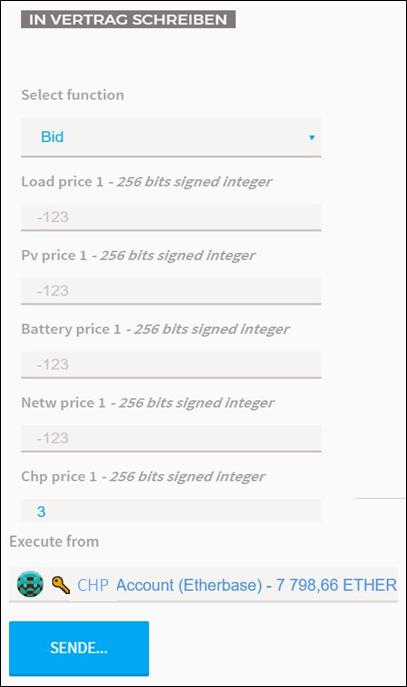
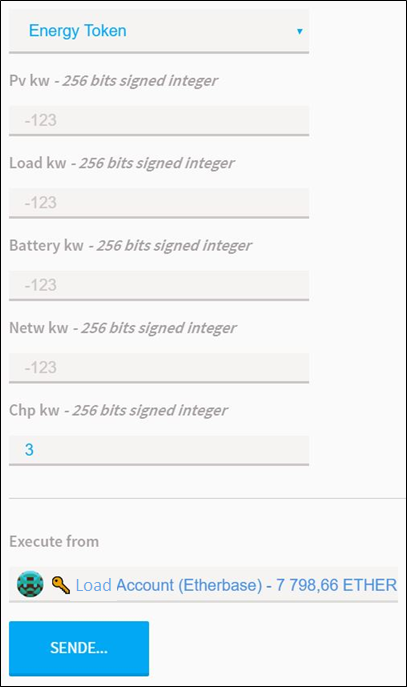
GitBook: [master] one page and 25 assets modified

diff --git a/5.-physical-implementation-in-a-test-network.md b/5.-physical-implementation-in-a-test-network.md
@@ -50,6 +50,8 @@ Damit wurde Ethereum installiert an der RPi and able to synchronise with the liv
 * Installing Golang 
 * Installing MinGW
 
+
+
 ### 5.2         Structure of the Smart Contracts
 
 The Smart Contract is deployed via [Mist browser](https://github.com/ethereum/mist) to our private Ethereum blockchain. It represents a trading platform, which can be used by the five actors. They can perform the following activities:
@@ -66,6 +68,10 @@ Each of these activities is realized by a function of the Smart Contract.
 * five account variables to store the prepaid balance of each actor. The logic for the separation is implemented in the charging and buying function.
 * five price variables to store the offers of each actor.
 
+### 
+
+![Overview of the Smart Contract](.gitbook/assets/image%20%282%29.png)
+
 ### 5.3 Sample Scenario
 
 1. "Load" charges its prepaid account with 40 Ether.
@@ -78,13 +84,33 @@ Each of these activities is realized by a function of the Smart Contract.
 
 To charge the prepaid account, "Load" executes the PayMe function of the SmartContract with the chosen amount of Ether. The Ether will be transferred from the "Load" wallet to the Smart Contract wallet. The Smart Contract recognizes who sent the Ether and increases the corresponding account balance variable.
 
-![Choose function and amount of ether](.gitbook/assets/image%20%287%29.png)
+![Logic](.gitbook/assets/image%20%2814%29.png)
 
-![Send Ether from &quot;Load&quot; wallet to contract wallet](.gitbook/assets/image%20%2812%29.png)
+**Steps:**
 
-![Writing the transaction into the blockchain](.gitbook/assets/image%20%285%29.png)
+{% tabs %}
+{% tab title="Step 1" %}
 
-![Wallet of the contract \(top right\) and prepaid balance of &quot;load&quot;](.gitbook/assets/image%20%2822%29.png)
+
+![Choose function and amount of ether](.gitbook/assets/image%20%289%29.png)
+{% endtab %}
+
+{% tab title="Step 2" %}
+
+
+![Send Ether from &quot;Load&quot; wallet to contract wallet](.gitbook/assets/image%20%2815%29.png)
+{% endtab %}
+
+{% tab title="Step 3" %}
+![Writing the transaction into the blockchain](.gitbook/assets/image%20%286%29.png)
+{% endtab %}
+
+{% tab title="Step 4" %}
+
+
+![Wallet of the contract \(top right\) and prepaid balance of &quot;load&quot;](.gitbook/assets/image%20%2827%29.png)
+{% endtab %}
+{% endtabs %}
 
 
 
@@ -92,9 +118,24 @@ To charge the prepaid account, "Load" executes the PayMe function of the SmartCo
 
 To publish an offer, "Chp" executes the bid function with the corresponding "Chp kw" value. The smart contract recognizes who executes the function. Therefore each actor can only change its own offers.
 
-![CHP changes its price per kw](.gitbook/assets/image%20%2813%29.png)
+![Logic](.gitbook/assets/image%20%2819%29.png)
 
-![The new offer is saved in the Smart Contract](.gitbook/assets/image%20%286%29.png)
+  
+**Steps:**
+
+{% tabs %}
+{% tab title="Step 1" %}
+
+
+![CHP changes its price per kw](.gitbook/assets/image%20%2816%29.png)
+{% endtab %}
+
+{% tab title="Step 2" %}
+
+
+![The new offer is saved in the Smart Contract](.gitbook/assets/image%20%287%29.png)
+{% endtab %}
+{% endtabs %}
 
 #### 
 
@@ -102,11 +143,32 @@ To publish an offer, "Chp" executes the bid function with the corresponding "Chp
 
 "Load" looks which actor has the cheapest price per kw. Afterwards chooses how much kw should be bought from which actor and executes the "Energy Tokens" function. The Smart Contract will check, if "Load" has enough prepaid balance to perform this transaction. If so, the Smart Contract will send the corresponding amount of ether from its wallet to the wallet of all involved actors. The prepaid balance of "Load" will be reduced.
 
-![Load looks for the best price offer](.gitbook/assets/image%20%286%29.png)
+![Logic](.gitbook/assets/image%20%288%29.png)
 
-![Load decides to buy 10 kw per 3 Ether from Chp](.gitbook/assets/image%20%284%29.png)
+  
+**Steps:**
 
-![Chp received 30 Ether from the Smart Contract wallet](.gitbook/assets/image%20%2818%29.png)
+{% tabs %}
+{% tab title="Step 1" %}
+
+
+![Load looks for the best price offer](.gitbook/assets/image%20%287%29.png)
+{% endtab %}
+
+{% tab title="Step 2" %}
+
+
+![Load decides to buy 10 kw per 3 Ether from Chp](.gitbook/assets/image%20%285%29.png)
+{% endtab %}
+
+{% tab title="Step 3" %}
+![Chp received 30 Ether from the Smart Contract wallet](.gitbook/assets/image%20%2822%29.png)
+{% endtab %}
+
+{% tab title="Step 4" %}
+![Wallet of Smart Contract and prepaid balance of &quot;Load&quot; decreased by 30 Ether](.gitbook/assets/image%20%2826%29.png)
+{% endtab %}
+{% endtabs %}
 
 
 
